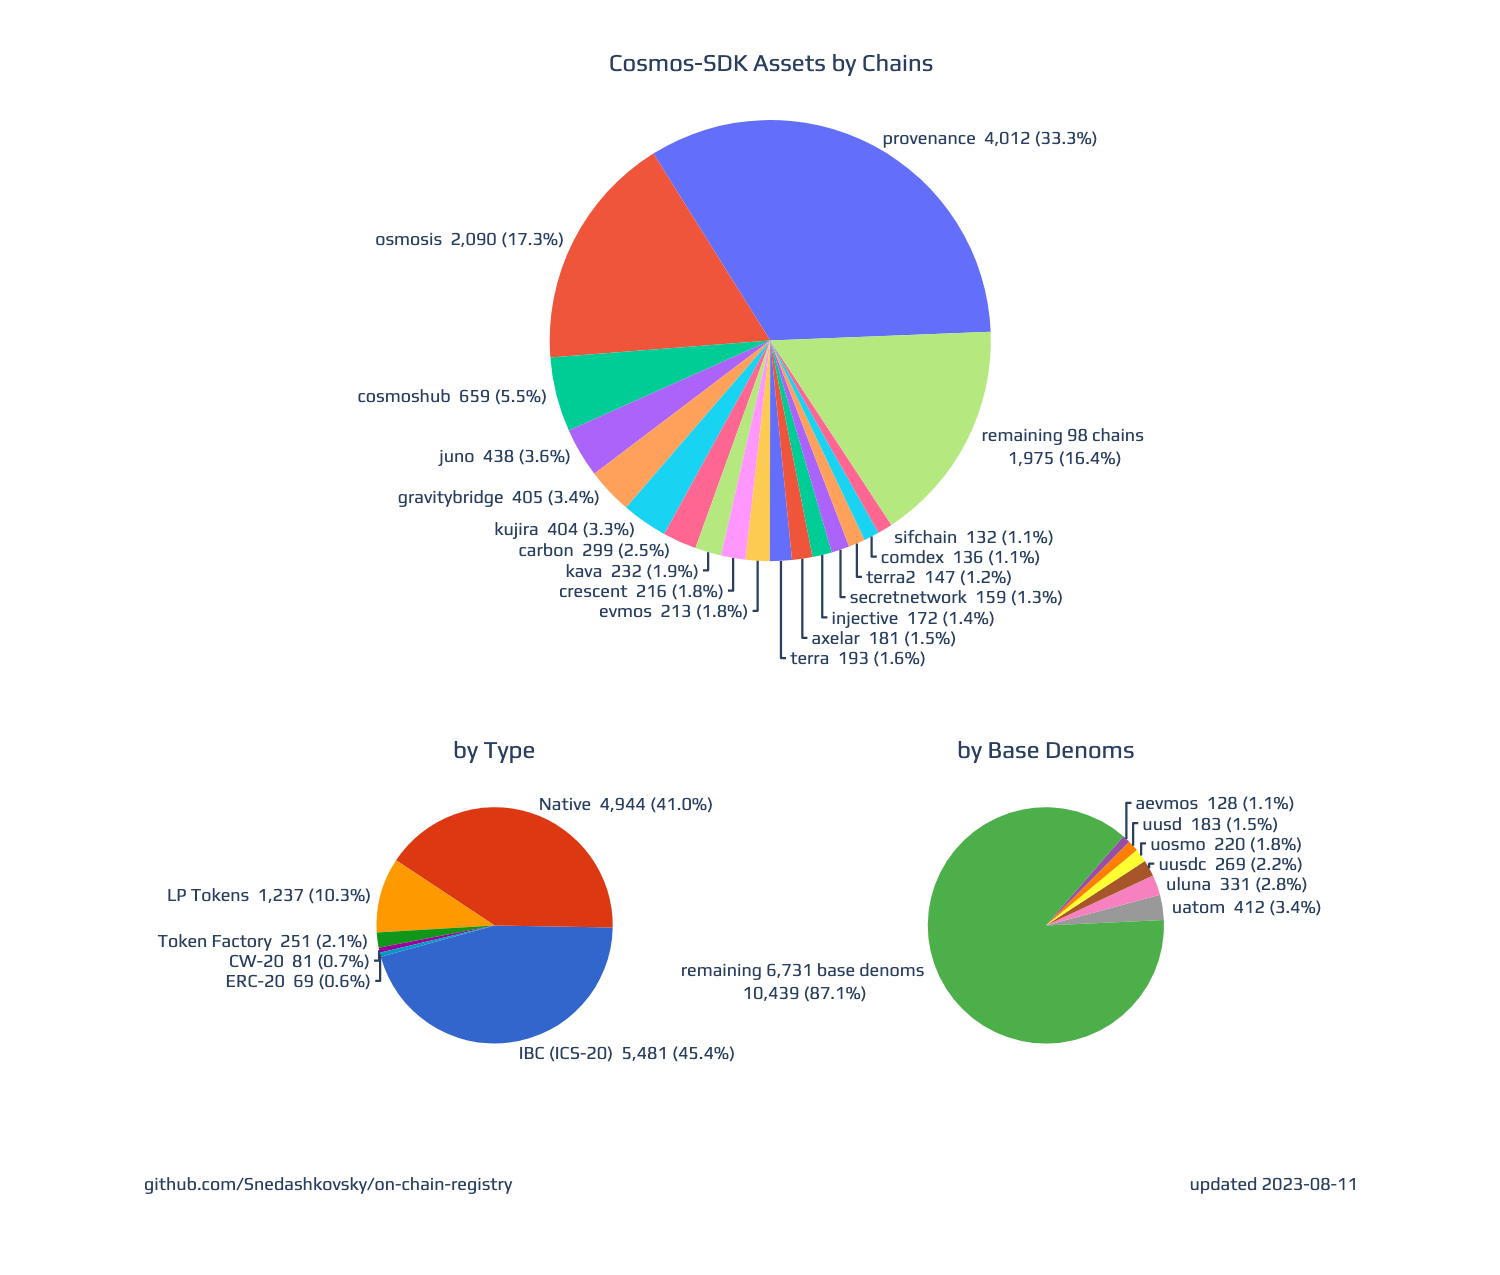
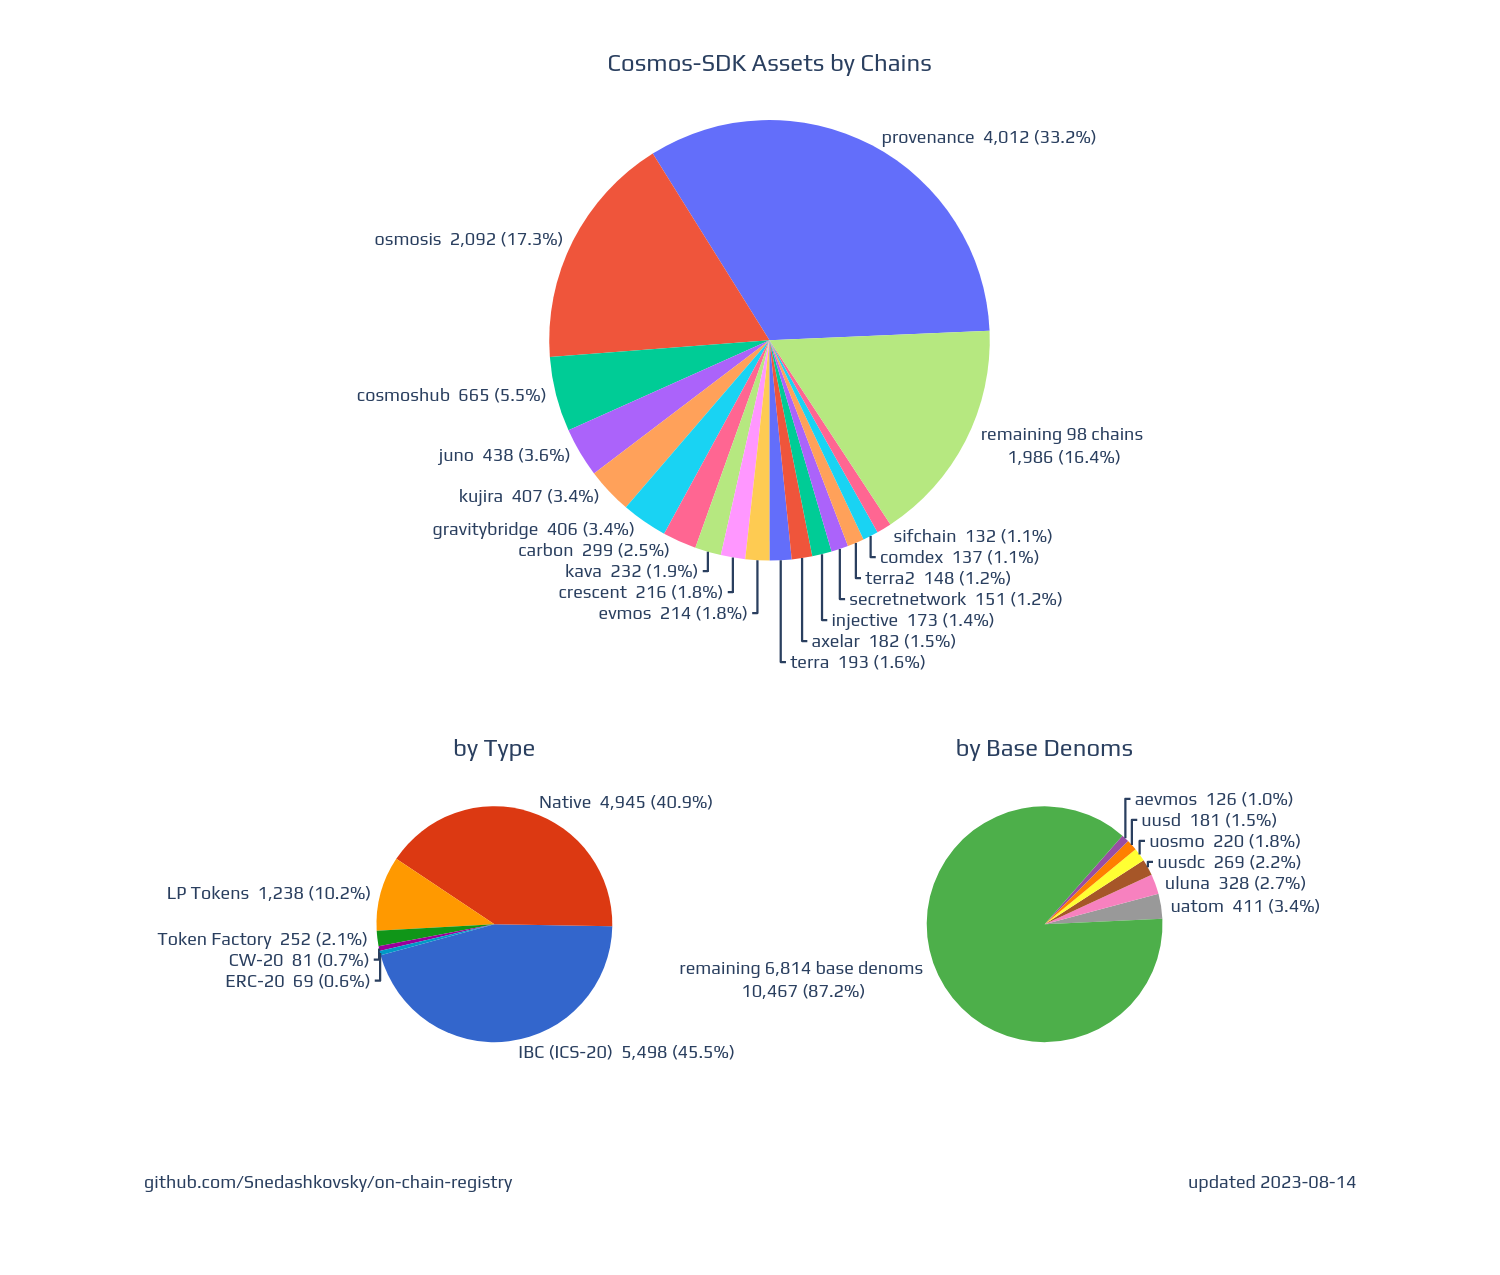
- update asset list

diff --git a/charts/index.html b/charts/index.html
@@ -2,6 +2,6 @@
 <head><meta charset="utf-8" /></head>
 <body>
     <div>                        <script type="text/javascript">window.PlotlyConfig = {MathJaxConfig: 'local'};</script>
-        <script charset="utf-8" src="https://cdn.plot.ly/plotly-2.24.1.min.js"></script>                <div id="8ad76482-42dc-4800-8eb7-dd862f7befbe" class="plotly-graph-div" style="height:850px; width:1000px;"></div>            <script type="text/javascript">                                    window.PLOTLYENV=window.PLOTLYENV || {};                                    if (document.getElementById("8ad76482-42dc-4800-8eb7-dd862f7befbe")) {                    Plotly.newPlot(                        "8ad76482-42dc-4800-8eb7-dd862f7befbe",                        [{"labels":["provenance","osmosis","cosmoshub","juno","kujira","gravitybridge","carbon","kava","crescent","evmos","terra","axelar","injective","secretnetwork","terra2","comdex","sifchain","remaining 98 chains\n\u003cbr\u003e"],"marker":{"colors":["#636EFA","#EF553B","#00CC96","#AB63FA","#FFA15A","#19D3F3","#FF6692","#B6E880","#FF97FF","#FECB52"]},"name":"assets by chains","rotation":-32,"sort":false,"text":["4,012","2,092","665","438","407","406","299","232","216","214","193","182","173","151","148","137","132","1,986"],"values":[4012,2092,665,438,407,406,299,232,216,214,193,182,173,151,148,137,132,1986],"type":"pie","domain":{"x":[0.0,1.0],"y":[0.5700000000000001,1.0]},"hoverinfo":"label+value+percent","hovertemplate":"%{label}\u003cbr\u003e%{value:\u003e,} (%{percent:.1%})","textinfo":"label+value+percent","textposition":"outside","texttemplate":" %{label}  %{value:\u003e,} (%{percent:.1%}) "},{"labels":["IBC (ICS-20)","Native","LP Tokens","Token Factory","CW-20","ERC-20"],"marker":{"colors":["#3366CC","#DC3912","#FF9900","#109618","#990099","#0099C6","#DD4477","#66AA00","#B82E2E","#316395"]},"name":"assets by type","rotation":91,"sort":false,"text":["5,498","4,945","1,238","252","81","69"],"values":[5498,4945,1238,252,81,69],"type":"pie","domain":{"x":[0.0,0.3],"y":[0.0,0.43]},"hoverinfo":"label+value+percent","hovertemplate":"%{label}\u003cbr\u003e%{value:\u003e,} (%{percent:.1%})","textinfo":"label+value+percent","textposition":"outside","texttemplate":" %{label}  %{value:\u003e,} (%{percent:.1%}) "},{"labels":["uatom","uluna","uusdc","uosmo","uusd","aevmos","remaining 6,814 base denoms\n\u003cbr\u003e"],"marker":{"colors":["rgb(153,153,153)","rgb(247,129,191)","rgb(166,86,40)","rgb(255,255,51)","rgb(255,127,0)","rgb(152,78,163)","rgb(77,175,74)","rgb(55,126,184)","rgb(228,26,28)"]},"name":"assets by base denoms","rotation":75,"sort":false,"text":["411","328","269","220","181","126","10,467"],"values":[411,328,269,220,181,126,10467],"type":"pie","domain":{"x":[0.7,1.0],"y":[0.0,0.43]},"hoverinfo":"label+value+percent","hovertemplate":"%{label}\u003cbr\u003e%{value:\u003e,} (%{percent:.1%})","textinfo":"label+value+percent","textposition":"outside","texttemplate":" %{label}  %{value:\u003e,} (%{percent:.1%}) "}],                        {"template":{"data":{"barpolar":[{"marker":{"line":{"color":"white","width":0.5},"pattern":{"fillmode":"overlay","size":10,"solidity":0.2}},"type":"barpolar"}],"bar":[{"error_x":{"color":"#2a3f5f"},"error_y":{"color":"#2a3f5f"},"marker":{"line":{"color":"white","width":0.5},"pattern":{"fillmode":"overlay","size":10,"solidity":0.2}},"type":"bar"}],"carpet":[{"aaxis":{"endlinecolor":"#2a3f5f","gridcolor":"#C8D4E3","linecolor":"#C8D4E3","minorgridcolor":"#C8D4E3","startlinecolor":"#2a3f5f"},"baxis":{"endlinecolor":"#2a3f5f","gridcolor":"#C8D4E3","linecolor":"#C8D4E3","minorgridcolor":"#C8D4E3","startlinecolor":"#2a3f5f"},"type":"carpet"}],"choropleth":[{"colorbar":{"outlinewidth":0,"ticks":""},"type":"choropleth"}],"contourcarpet":[{"colorbar":{"outlinewidth":0,"ticks":""},"type":"contourcarpet"}],"contour":[{"colorbar":{"outlinewidth":0,"ticks":""},"colorscale":[[0.0,"#0d0887"],[0.1111111111111111,"#46039f"],[0.2222222222222222,"#7201a8"],[0.3333333333333333,"#9c179e"],[0.4444444444444444,"#bd3786"],[0.5555555555555556,"#d8576b"],[0.6666666666666666,"#ed7953"],[0.7777777777777778,"#fb9f3a"],[0.8888888888888888,"#fdca26"],[1.0,"#f0f921"]],"type":"contour"}],"heatmapgl":[{"colorbar":{"outlinewidth":0,"ticks":""},"colorscale":[[0.0,"#0d0887"],[0.1111111111111111,"#46039f"],[0.2222222222222222,"#7201a8"],[0.3333333333333333,"#9c179e"],[0.4444444444444444,"#bd3786"],[0.5555555555555556,"#d8576b"],[0.6666666666666666,"#ed7953"],[0.7777777777777778,"#fb9f3a"],[0.8888888888888888,"#fdca26"],[1.0,"#f0f921"]],"type":"heatmapgl"}],"heatmap":[{"colorbar":{"outlinewidth":0,"ticks":""},"colorscale":[[0.0,"#0d0887"],[0.1111111111111111,"#46039f"],[0.2222222222222222,"#7201a8"],[0.3333333333333333,"#9c179e"],[0.4444444444444444,"#bd3786"],[0.5555555555555556,"#d8576b"],[0.6666666666666666,"#ed7953"],[0.7777777777777778,"#fb9f3a"],[0.8888888888888888,"#fdca26"],[1.0,"#f0f921"]],"type":"heatmap"}],"histogram2dcontour":[{"colorbar":{"outlinewidth":0,"ticks":""},"colorscale":[[0.0,"#0d0887"],[0.1111111111111111,"#46039f"],[0.2222222222222222,"#7201a8"],[0.3333333333333333,"#9c179e"],[0.4444444444444444,"#bd3786"],[0.5555555555555556,"#d8576b"],[0.6666666666666666,"#ed7953"],[0.7777777777777778,"#fb9f3a"],[0.8888888888888888,"#fdca26"],[1.0,"#f0f921"]],"type":"histogram2dcontour"}],"histogram2d":[{"colorbar":{"outlinewidth":0,"ticks":""},"colorscale":[[0.0,"#0d0887"],[0.1111111111111111,"#46039f"],[0.2222222222222222,"#7201a8"],[0.3333333333333333,"#9c179e"],[0.4444444444444444,"#bd3786"],[0.5555555555555556,"#d8576b"],[0.6666666666666666,"#ed7953"],[0.7777777777777778,"#fb9f3a"],[0.8888888888888888,"#fdca26"],[1.0,"#f0f921"]],"type":"histogram2d"}],"histogram":[{"marker":{"pattern":{"fillmode":"overlay","size":10,"solidity":0.2}},"type":"histogram"}],"mesh3d":[{"colorbar":{"outlinewidth":0,"ticks":""},"type":"mesh3d"}],"parcoords":[{"line":{"colorbar":{"outlinewidth":0,"ticks":""}},"type":"parcoords"}],"pie":[{"automargin":true,"type":"pie"}],"scatter3d":[{"line":{"colorbar":{"outlinewidth":0,"ticks":""}},"marker":{"colorbar":{"outlinewidth":0,"ticks":""}},"type":"scatter3d"}],"scattercarpet":[{"marker":{"colorbar":{"outlinewidth":0,"ticks":""}},"type":"scattercarpet"}],"scattergeo":[{"marker":{"colorbar":{"outlinewidth":0,"ticks":""}},"type":"scattergeo"}],"scattergl":[{"marker":{"colorbar":{"outlinewidth":0,"ticks":""}},"type":"scattergl"}],"scattermapbox":[{"marker":{"colorbar":{"outlinewidth":0,"ticks":""}},"type":"scattermapbox"}],"scatterpolargl":[{"marker":{"colorbar":{"outlinewidth":0,"ticks":""}},"type":"scatterpolargl"}],"scatterpolar":[{"marker":{"colorbar":{"outlinewidth":0,"ticks":""}},"type":"scatterpolar"}],"scatter":[{"fillpattern":{"fillmode":"overlay","size":10,"solidity":0.2},"type":"scatter"}],"scatterternary":[{"marker":{"colorbar":{"outlinewidth":0,"ticks":""}},"type":"scatterternary"}],"surface":[{"colorbar":{"outlinewidth":0,"ticks":""},"colorscale":[[0.0,"#0d0887"],[0.1111111111111111,"#46039f"],[0.2222222222222222,"#7201a8"],[0.3333333333333333,"#9c179e"],[0.4444444444444444,"#bd3786"],[0.5555555555555556,"#d8576b"],[0.6666666666666666,"#ed7953"],[0.7777777777777778,"#fb9f3a"],[0.8888888888888888,"#fdca26"],[1.0,"#f0f921"]],"type":"surface"}],"table":[{"cells":{"fill":{"color":"#EBF0F8"},"line":{"color":"white"}},"header":{"fill":{"color":"#C8D4E3"},"line":{"color":"white"}},"type":"table"}]},"layout":{"annotationdefaults":{"arrowcolor":"#2a3f5f","arrowhead":0,"arrowwidth":1},"autotypenumbers":"strict","coloraxis":{"colorbar":{"outlinewidth":0,"ticks":""}},"colorscale":{"diverging":[[0,"#8e0152"],[0.1,"#c51b7d"],[0.2,"#de77ae"],[0.3,"#f1b6da"],[0.4,"#fde0ef"],[0.5,"#f7f7f7"],[0.6,"#e6f5d0"],[0.7,"#b8e186"],[0.8,"#7fbc41"],[0.9,"#4d9221"],[1,"#276419"]],"sequential":[[0.0,"#0d0887"],[0.1111111111111111,"#46039f"],[0.2222222222222222,"#7201a8"],[0.3333333333333333,"#9c179e"],[0.4444444444444444,"#bd3786"],[0.5555555555555556,"#d8576b"],[0.6666666666666666,"#ed7953"],[0.7777777777777778,"#fb9f3a"],[0.8888888888888888,"#fdca26"],[1.0,"#f0f921"]],"sequentialminus":[[0.0,"#0d0887"],[0.1111111111111111,"#46039f"],[0.2222222222222222,"#7201a8"],[0.3333333333333333,"#9c179e"],[0.4444444444444444,"#bd3786"],[0.5555555555555556,"#d8576b"],[0.6666666666666666,"#ed7953"],[0.7777777777777778,"#fb9f3a"],[0.8888888888888888,"#fdca26"],[1.0,"#f0f921"]]},"colorway":["#636efa","#EF553B","#00cc96","#ab63fa","#FFA15A","#19d3f3","#FF6692","#B6E880","#FF97FF","#FECB52"],"font":{"color":"#2a3f5f"},"geo":{"bgcolor":"white","lakecolor":"white","landcolor":"white","showlakes":true,"showland":true,"subunitcolor":"#C8D4E3"},"hoverlabel":{"align":"left"},"hovermode":"closest","mapbox":{"style":"light"},"paper_bgcolor":"white","plot_bgcolor":"white","polar":{"angularaxis":{"gridcolor":"#EBF0F8","linecolor":"#EBF0F8","ticks":""},"bgcolor":"white","radialaxis":{"gridcolor":"#EBF0F8","linecolor":"#EBF0F8","ticks":""}},"scene":{"xaxis":{"backgroundcolor":"white","gridcolor":"#DFE8F3","gridwidth":2,"linecolor":"#EBF0F8","showbackground":true,"ticks":"","zerolinecolor":"#EBF0F8"},"yaxis":{"backgroundcolor":"white","gridcolor":"#DFE8F3","gridwidth":2,"linecolor":"#EBF0F8","showbackground":true,"ticks":"","zerolinecolor":"#EBF0F8"},"zaxis":{"backgroundcolor":"white","gridcolor":"#DFE8F3","gridwidth":2,"linecolor":"#EBF0F8","showbackground":true,"ticks":"","zerolinecolor":"#EBF0F8"}},"shapedefaults":{"line":{"color":"#2a3f5f"}},"ternary":{"aaxis":{"gridcolor":"#DFE8F3","linecolor":"#A2B1C6","ticks":""},"baxis":{"gridcolor":"#DFE8F3","linecolor":"#A2B1C6","ticks":""},"bgcolor":"white","caxis":{"gridcolor":"#DFE8F3","linecolor":"#A2B1C6","ticks":""}},"title":{"x":0.05},"xaxis":{"automargin":true,"gridcolor":"#EBF0F8","linecolor":"#EBF0F8","ticks":"","title":{"standoff":15},"zerolinecolor":"#EBF0F8","zerolinewidth":2},"yaxis":{"automargin":true,"gridcolor":"#EBF0F8","linecolor":"#EBF0F8","ticks":"","title":{"standoff":15},"zerolinecolor":"#EBF0F8","zerolinewidth":2}}},"annotations":[{"font":{"size":16},"showarrow":false,"text":"Cosmos-SDK Assets by Chains","x":0.5,"xanchor":"center","xref":"paper","y":1.04,"yanchor":"bottom","yref":"paper"},{"font":{"size":16},"showarrow":false,"text":"by Type","x":0.15,"xanchor":"center","xref":"paper","y":0.37,"yanchor":"bottom","yref":"paper"},{"font":{"size":16},"showarrow":false,"text":"by Base Denoms","x":0.85,"xanchor":"center","xref":"paper","y":0.37,"yanchor":"bottom","yref":"paper"},{"showarrow":false,"text":"github.com\u002fSnedashkovsky\u002fon-chain-registry","x":-0.3,"y":-0.05},{"showarrow":false,"text":"updated 2023-08-14","x":1.25,"y":-0.05}],"font":{"family":"Play"},"title":{"text":"","x":0.5},"margin":{"l":0,"r":0,"t":80,"b":0},"height":850,"width":1000,"showlegend":false,"autosize":false},                        {"responsive": true}                    )                };                            </script>        </div>
+        <script charset="utf-8" src="https://cdn.plot.ly/plotly-2.24.1.min.js"></script>                <div id="7d2aee85-1ce1-421f-b59e-cf6a9aaf741c" class="plotly-graph-div" style="height:850px; width:1000px;"></div>            <script type="text/javascript">                                    window.PLOTLYENV=window.PLOTLYENV || {};                                    if (document.getElementById("7d2aee85-1ce1-421f-b59e-cf6a9aaf741c")) {                    Plotly.newPlot(                        "7d2aee85-1ce1-421f-b59e-cf6a9aaf741c",                        [{"labels":["provenance","osmosis","cosmoshub","juno","kujira","gravitybridge","carbon","kava","crescent","evmos","terra","axelar","injective","secretnetwork","terra2","comdex","sifchain","remaining 98 chains\n\u003cbr\u003e"],"marker":{"colors":["#636EFA","#EF553B","#00CC96","#AB63FA","#FFA15A","#19D3F3","#FF6692","#B6E880","#FF97FF","#FECB52"]},"name":"assets by chains","rotation":-32,"sort":false,"text":["4,012","2,092","665","438","407","406","299","232","216","214","193","182","173","151","148","137","132","1,986"],"values":[4012,2092,665,438,407,406,299,232,216,214,193,182,173,151,148,137,132,1986],"type":"pie","domain":{"x":[0.0,1.0],"y":[0.5700000000000001,1.0]},"hoverinfo":"label+value+percent","hovertemplate":"%{label}\u003cbr\u003e%{value:\u003e,} (%{percent:.1%})","textinfo":"label+value+percent","textposition":"outside","texttemplate":" %{label}  %{value:\u003e,} (%{percent:.1%}) "},{"labels":["IBC (ICS-20)","Native","LP Tokens","Token Factory","CW-20","ERC-20"],"marker":{"colors":["#3366CC","#DC3912","#FF9900","#109618","#990099","#0099C6","#DD4477","#66AA00","#B82E2E","#316395"]},"name":"assets by type","rotation":91,"sort":false,"text":["5,498","4,945","1,238","252","81","69"],"values":[5498,4945,1238,252,81,69],"type":"pie","domain":{"x":[0.0,0.3],"y":[0.0,0.43]},"hoverinfo":"label+value+percent","hovertemplate":"%{label}\u003cbr\u003e%{value:\u003e,} (%{percent:.1%})","textinfo":"label+value+percent","textposition":"outside","texttemplate":" %{label}  %{value:\u003e,} (%{percent:.1%}) "},{"labels":["uatom","uluna","uusdc","uosmo","uusd","aevmos","remaining 6,814 base denoms\n\u003cbr\u003e"],"marker":{"colors":["rgb(153,153,153)","rgb(247,129,191)","rgb(166,86,40)","rgb(255,255,51)","rgb(255,127,0)","rgb(152,78,163)","rgb(77,175,74)","rgb(55,126,184)","rgb(228,26,28)"]},"name":"assets by base denoms","rotation":75,"sort":false,"text":["411","328","269","220","181","126","10,467"],"values":[411,328,269,220,181,126,10467],"type":"pie","domain":{"x":[0.7,1.0],"y":[0.0,0.43]},"hoverinfo":"label+value+percent","hovertemplate":"%{label}\u003cbr\u003e%{value:\u003e,} (%{percent:.1%})","textinfo":"label+value+percent","textposition":"outside","texttemplate":" %{label}  %{value:\u003e,} (%{percent:.1%}) "}],                        {"template":{"data":{"barpolar":[{"marker":{"line":{"color":"white","width":0.5},"pattern":{"fillmode":"overlay","size":10,"solidity":0.2}},"type":"barpolar"}],"bar":[{"error_x":{"color":"#2a3f5f"},"error_y":{"color":"#2a3f5f"},"marker":{"line":{"color":"white","width":0.5},"pattern":{"fillmode":"overlay","size":10,"solidity":0.2}},"type":"bar"}],"carpet":[{"aaxis":{"endlinecolor":"#2a3f5f","gridcolor":"#C8D4E3","linecolor":"#C8D4E3","minorgridcolor":"#C8D4E3","startlinecolor":"#2a3f5f"},"baxis":{"endlinecolor":"#2a3f5f","gridcolor":"#C8D4E3","linecolor":"#C8D4E3","minorgridcolor":"#C8D4E3","startlinecolor":"#2a3f5f"},"type":"carpet"}],"choropleth":[{"colorbar":{"outlinewidth":0,"ticks":""},"type":"choropleth"}],"contourcarpet":[{"colorbar":{"outlinewidth":0,"ticks":""},"type":"contourcarpet"}],"contour":[{"colorbar":{"outlinewidth":0,"ticks":""},"colorscale":[[0.0,"#0d0887"],[0.1111111111111111,"#46039f"],[0.2222222222222222,"#7201a8"],[0.3333333333333333,"#9c179e"],[0.4444444444444444,"#bd3786"],[0.5555555555555556,"#d8576b"],[0.6666666666666666,"#ed7953"],[0.7777777777777778,"#fb9f3a"],[0.8888888888888888,"#fdca26"],[1.0,"#f0f921"]],"type":"contour"}],"heatmapgl":[{"colorbar":{"outlinewidth":0,"ticks":""},"colorscale":[[0.0,"#0d0887"],[0.1111111111111111,"#46039f"],[0.2222222222222222,"#7201a8"],[0.3333333333333333,"#9c179e"],[0.4444444444444444,"#bd3786"],[0.5555555555555556,"#d8576b"],[0.6666666666666666,"#ed7953"],[0.7777777777777778,"#fb9f3a"],[0.8888888888888888,"#fdca26"],[1.0,"#f0f921"]],"type":"heatmapgl"}],"heatmap":[{"colorbar":{"outlinewidth":0,"ticks":""},"colorscale":[[0.0,"#0d0887"],[0.1111111111111111,"#46039f"],[0.2222222222222222,"#7201a8"],[0.3333333333333333,"#9c179e"],[0.4444444444444444,"#bd3786"],[0.5555555555555556,"#d8576b"],[0.6666666666666666,"#ed7953"],[0.7777777777777778,"#fb9f3a"],[0.8888888888888888,"#fdca26"],[1.0,"#f0f921"]],"type":"heatmap"}],"histogram2dcontour":[{"colorbar":{"outlinewidth":0,"ticks":""},"colorscale":[[0.0,"#0d0887"],[0.1111111111111111,"#46039f"],[0.2222222222222222,"#7201a8"],[0.3333333333333333,"#9c179e"],[0.4444444444444444,"#bd3786"],[0.5555555555555556,"#d8576b"],[0.6666666666666666,"#ed7953"],[0.7777777777777778,"#fb9f3a"],[0.8888888888888888,"#fdca26"],[1.0,"#f0f921"]],"type":"histogram2dcontour"}],"histogram2d":[{"colorbar":{"outlinewidth":0,"ticks":""},"colorscale":[[0.0,"#0d0887"],[0.1111111111111111,"#46039f"],[0.2222222222222222,"#7201a8"],[0.3333333333333333,"#9c179e"],[0.4444444444444444,"#bd3786"],[0.5555555555555556,"#d8576b"],[0.6666666666666666,"#ed7953"],[0.7777777777777778,"#fb9f3a"],[0.8888888888888888,"#fdca26"],[1.0,"#f0f921"]],"type":"histogram2d"}],"histogram":[{"marker":{"pattern":{"fillmode":"overlay","size":10,"solidity":0.2}},"type":"histogram"}],"mesh3d":[{"colorbar":{"outlinewidth":0,"ticks":""},"type":"mesh3d"}],"parcoords":[{"line":{"colorbar":{"outlinewidth":0,"ticks":""}},"type":"parcoords"}],"pie":[{"automargin":true,"type":"pie"}],"scatter3d":[{"line":{"colorbar":{"outlinewidth":0,"ticks":""}},"marker":{"colorbar":{"outlinewidth":0,"ticks":""}},"type":"scatter3d"}],"scattercarpet":[{"marker":{"colorbar":{"outlinewidth":0,"ticks":""}},"type":"scattercarpet"}],"scattergeo":[{"marker":{"colorbar":{"outlinewidth":0,"ticks":""}},"type":"scattergeo"}],"scattergl":[{"marker":{"colorbar":{"outlinewidth":0,"ticks":""}},"type":"scattergl"}],"scattermapbox":[{"marker":{"colorbar":{"outlinewidth":0,"ticks":""}},"type":"scattermapbox"}],"scatterpolargl":[{"marker":{"colorbar":{"outlinewidth":0,"ticks":""}},"type":"scatterpolargl"}],"scatterpolar":[{"marker":{"colorbar":{"outlinewidth":0,"ticks":""}},"type":"scatterpolar"}],"scatter":[{"fillpattern":{"fillmode":"overlay","size":10,"solidity":0.2},"type":"scatter"}],"scatterternary":[{"marker":{"colorbar":{"outlinewidth":0,"ticks":""}},"type":"scatterternary"}],"surface":[{"colorbar":{"outlinewidth":0,"ticks":""},"colorscale":[[0.0,"#0d0887"],[0.1111111111111111,"#46039f"],[0.2222222222222222,"#7201a8"],[0.3333333333333333,"#9c179e"],[0.4444444444444444,"#bd3786"],[0.5555555555555556,"#d8576b"],[0.6666666666666666,"#ed7953"],[0.7777777777777778,"#fb9f3a"],[0.8888888888888888,"#fdca26"],[1.0,"#f0f921"]],"type":"surface"}],"table":[{"cells":{"fill":{"color":"#EBF0F8"},"line":{"color":"white"}},"header":{"fill":{"color":"#C8D4E3"},"line":{"color":"white"}},"type":"table"}]},"layout":{"annotationdefaults":{"arrowcolor":"#2a3f5f","arrowhead":0,"arrowwidth":1},"autotypenumbers":"strict","coloraxis":{"colorbar":{"outlinewidth":0,"ticks":""}},"colorscale":{"diverging":[[0,"#8e0152"],[0.1,"#c51b7d"],[0.2,"#de77ae"],[0.3,"#f1b6da"],[0.4,"#fde0ef"],[0.5,"#f7f7f7"],[0.6,"#e6f5d0"],[0.7,"#b8e186"],[0.8,"#7fbc41"],[0.9,"#4d9221"],[1,"#276419"]],"sequential":[[0.0,"#0d0887"],[0.1111111111111111,"#46039f"],[0.2222222222222222,"#7201a8"],[0.3333333333333333,"#9c179e"],[0.4444444444444444,"#bd3786"],[0.5555555555555556,"#d8576b"],[0.6666666666666666,"#ed7953"],[0.7777777777777778,"#fb9f3a"],[0.8888888888888888,"#fdca26"],[1.0,"#f0f921"]],"sequentialminus":[[0.0,"#0d0887"],[0.1111111111111111,"#46039f"],[0.2222222222222222,"#7201a8"],[0.3333333333333333,"#9c179e"],[0.4444444444444444,"#bd3786"],[0.5555555555555556,"#d8576b"],[0.6666666666666666,"#ed7953"],[0.7777777777777778,"#fb9f3a"],[0.8888888888888888,"#fdca26"],[1.0,"#f0f921"]]},"colorway":["#636efa","#EF553B","#00cc96","#ab63fa","#FFA15A","#19d3f3","#FF6692","#B6E880","#FF97FF","#FECB52"],"font":{"color":"#2a3f5f"},"geo":{"bgcolor":"white","lakecolor":"white","landcolor":"white","showlakes":true,"showland":true,"subunitcolor":"#C8D4E3"},"hoverlabel":{"align":"left"},"hovermode":"closest","mapbox":{"style":"light"},"paper_bgcolor":"white","plot_bgcolor":"white","polar":{"angularaxis":{"gridcolor":"#EBF0F8","linecolor":"#EBF0F8","ticks":""},"bgcolor":"white","radialaxis":{"gridcolor":"#EBF0F8","linecolor":"#EBF0F8","ticks":""}},"scene":{"xaxis":{"backgroundcolor":"white","gridcolor":"#DFE8F3","gridwidth":2,"linecolor":"#EBF0F8","showbackground":true,"ticks":"","zerolinecolor":"#EBF0F8"},"yaxis":{"backgroundcolor":"white","gridcolor":"#DFE8F3","gridwidth":2,"linecolor":"#EBF0F8","showbackground":true,"ticks":"","zerolinecolor":"#EBF0F8"},"zaxis":{"backgroundcolor":"white","gridcolor":"#DFE8F3","gridwidth":2,"linecolor":"#EBF0F8","showbackground":true,"ticks":"","zerolinecolor":"#EBF0F8"}},"shapedefaults":{"line":{"color":"#2a3f5f"}},"ternary":{"aaxis":{"gridcolor":"#DFE8F3","linecolor":"#A2B1C6","ticks":""},"baxis":{"gridcolor":"#DFE8F3","linecolor":"#A2B1C6","ticks":""},"bgcolor":"white","caxis":{"gridcolor":"#DFE8F3","linecolor":"#A2B1C6","ticks":""}},"title":{"x":0.05},"xaxis":{"automargin":true,"gridcolor":"#EBF0F8","linecolor":"#EBF0F8","ticks":"","title":{"standoff":15},"zerolinecolor":"#EBF0F8","zerolinewidth":2},"yaxis":{"automargin":true,"gridcolor":"#EBF0F8","linecolor":"#EBF0F8","ticks":"","title":{"standoff":15},"zerolinecolor":"#EBF0F8","zerolinewidth":2}}},"annotations":[{"font":{"size":16},"showarrow":false,"text":"Cosmos-SDK Assets by Chains","x":0.5,"xanchor":"center","xref":"paper","y":1.04,"yanchor":"bottom","yref":"paper"},{"font":{"size":16},"showarrow":false,"text":"by Type","x":0.15,"xanchor":"center","xref":"paper","y":0.37,"yanchor":"bottom","yref":"paper"},{"font":{"size":16},"showarrow":false,"text":"by Base Denoms","x":0.85,"xanchor":"center","xref":"paper","y":0.37,"yanchor":"bottom","yref":"paper"},{"showarrow":false,"text":"github.com\u002fSnedashkovsky\u002fon-chain-registry","x":-0.3,"y":-0.05},{"showarrow":false,"text":"updated 2023-08-14","x":1.25,"y":-0.05}],"font":{"family":"Play"},"title":{"text":"","x":0.5},"margin":{"l":0,"r":0,"t":80,"b":0},"height":850,"width":1000,"showlegend":false,"autosize":false},                        {"responsive": true}                    )                };                            </script>        </div>
 </body>
 </html>
